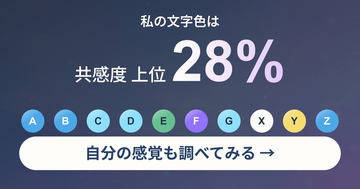
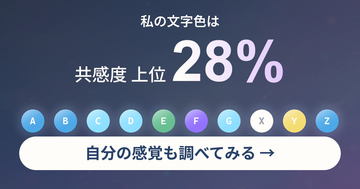
a

diff --git a/design/ogp/mock.html b/design/ogp/mock.html
@@ -89,8 +89,9 @@
         const x = 109 + index * 109;
         const y = 403;
         const rgb = color.match(/\w\w/g).map(channel => parseInt(channel, 16));
-        const light = rgb[0] * .2126 + rgb[1] * .7152 + rgb[2] * .0722 > 165;
-        return `<g><circle cx="${x}" cy="${y}" r="39" fill="${color}"/><circle cx="${x}" cy="${y}" r="39" fill="url(#glass)" stroke="white" stroke-opacity=".25"/><text x="${x}" y="${y + 1}" text-anchor="middle" dominant-baseline="middle" font-family="Arial,sans-serif" font-size="34" font-weight="700" fill="${light ? '#213345' : '#fffdf9'}">${letter}</text></g>`;
+        const linear = rgb.map(value => value / 255 <= .03928 ? value / 255 / 12.92 : ((value / 255 + .055) / 1.055) ** 2.4);
+        const bright = linear[0] * .2126 + linear[1] * .7152 + linear[2] * .0722 > .88;
+        return `<g><circle cx="${x}" cy="${y}" r="39" fill="${color}"/><circle cx="${x}" cy="${y}" r="39" fill="url(#${bright ? 'glass-bright' : 'glass'})"/><circle cx="${x}" cy="${y}" r="38" fill="none" stroke="${bright ? 'black' : 'white'}" stroke-opacity="${bright ? '.08' : '.20'}"/><text x="${x}" y="${y + 1}" text-anchor="middle" dominant-baseline="middle" font-family="Outfit,sans-serif" font-size="32.3" font-weight="700" fill="${bright ? '#9698a8' : '#fffdf9'}">${letter}</text></g>`;
       }).join('');
       const prefix = fields.headline.value;
       const score = Math.max(0, Math.min(100, Number(fields.score.value) || 0));
@@ -102,7 +103,8 @@
         <defs>
           <linearGradient id="depth" x2="1" y2="1"><stop stop-color="#0e1d34" stop-opacity=".85"/><stop offset="1" stop-color="#302b51" stop-opacity=".65"/></linearGradient>
           <linearGradient id="type-gradient"><stop stop-color="#a9f1ff"/><stop offset=".5" stop-color="#fffdf9"/><stop offset="1" stop-color="#e2caff"/></linearGradient>
-          <linearGradient id="glass" x2=".6" y2="1"><stop stop-color="white" stop-opacity=".4"/><stop offset=".65" stop-color="white" stop-opacity="0"/></linearGradient>
+          <linearGradient id="glass" x1="15.85%" y1="-9.15%" x2="84.15%" y2="109.15%"><stop stop-color="white" stop-opacity=".62"/><stop offset=".22" stop-color="white" stop-opacity=".32"/><stop offset=".42" stop-color="white" stop-opacity=".10"/><stop offset=".65" stop-color="white" stop-opacity="0"/></linearGradient>
+          <linearGradient id="glass-bright" x1="15.85%" y1="-9.15%" x2="84.15%" y2="109.15%"><stop stop-color="white" stop-opacity=".48"/><stop offset=".22" stop-color="white" stop-opacity=".22"/><stop offset=".42" stop-color="white" stop-opacity=".08"/><stop offset=".65" stop-color="white" stop-opacity="0"/></linearGradient>
         </defs>
         <image href="../../assets/backgrounds/ocean.webp" width="1200" height="630" preserveAspectRatio="xMidYMid slice"/>
         <rect width="1200" height="630" fill="url(#depth)"/>

diff --git a/lib/og-renderer.js b/lib/og-renderer.js
@@ -48,16 +48,37 @@ function blend(pixels, x, y, color, alpha) {
 
 function drawDot(pixels, masks, item, cx, cy, radius) {
   const color = [1, 3, 5].map(offset => parseInt(item.color.slice(offset, offset + 2), 16));
-  for (let y = -radius; y <= radius; y++) {
-    for (let x = -radius; x <= radius; x++) {
+  const linear = color.map(value => value / 255 <= .03928 ? value / 255 / 12.92 : ((value / 255 + .055) / 1.055) ** 2.4);
+  const bright = linear[0] * .2126 + linear[1] * .7152 + linear[2] * .0722 > .88;
+  const stops = bright ? [.48, .22, .08, 0] : [.62, .32, .10, 0];
+  const positions = [0, .22, .42, .65];
+  const blur = radius * 12 / 34;
+  const extent = Math.ceil(radius + blur * 3);
+  for (let y = -extent; y <= extent; y++) {
+    for (let x = -extent; x <= extent; x++) {
       const distance = Math.hypot(x, y);
-      if (distance > radius) continue;
-      const light = Math.max(0, .4 * (1 - ((x + radius) / (radius * 2) * .6 + (y + radius) / (radius * 2)) / .65));
+      if (distance > radius) {
+        blend(pixels, cx + x, cy + y, [180,220,255], .12 * Math.exp(-(((distance - radius) / blur) ** 2) / 2));
+        continue;
+      }
+      // CSS linear-gradient(150deg), using the same four stops as result.html.
+      const position = Math.max(0, Math.min(1, .5 + (.5 * x + Math.sqrt(3) / 2 * y) / (2 * radius * (.5 + Math.sqrt(3) / 2))));
+      let light = 0;
+      for (let stop = 1; stop < positions.length; stop++) {
+        if (position <= positions[stop]) {
+          const fraction = (position - positions[stop - 1]) / (positions[stop] - positions[stop - 1]);
+          light = stops[stop - 1] + (stops[stop] - stops[stop - 1]) * fraction;
+          break;
+        }
+      }
       const shaded = color.map(value => value * (1 - light) + 255 * light);
       blend(pixels, cx + x, cy + y, shaded, Math.min(1, radius - distance));
+      const edge = Math.max(0, Math.min(1, distance - radius + radius * 2 / 34));
+      if (bright) blend(pixels, cx + x, cy + y, [0,0,0], edge * .08);
+      else blend(pixels, cx + x, cy + y, [255,255,255], edge * .20 * Math.max(0, -y / radius));
     }
   }
-  const ink = color[0] * .2126 + color[1] * .7152 + color[2] * .0722 > 165 ? [33,51,69] : [255,253,249];
+  const ink = bright ? [150,152,168] : [255,253,249];
   const scale = radius / 39;
   const width = Math.round(48 * scale), height = Math.round(50 * scale);
   const maskOffset = (item.letter.charCodeAt(0) - 65) * 48 * 50;
